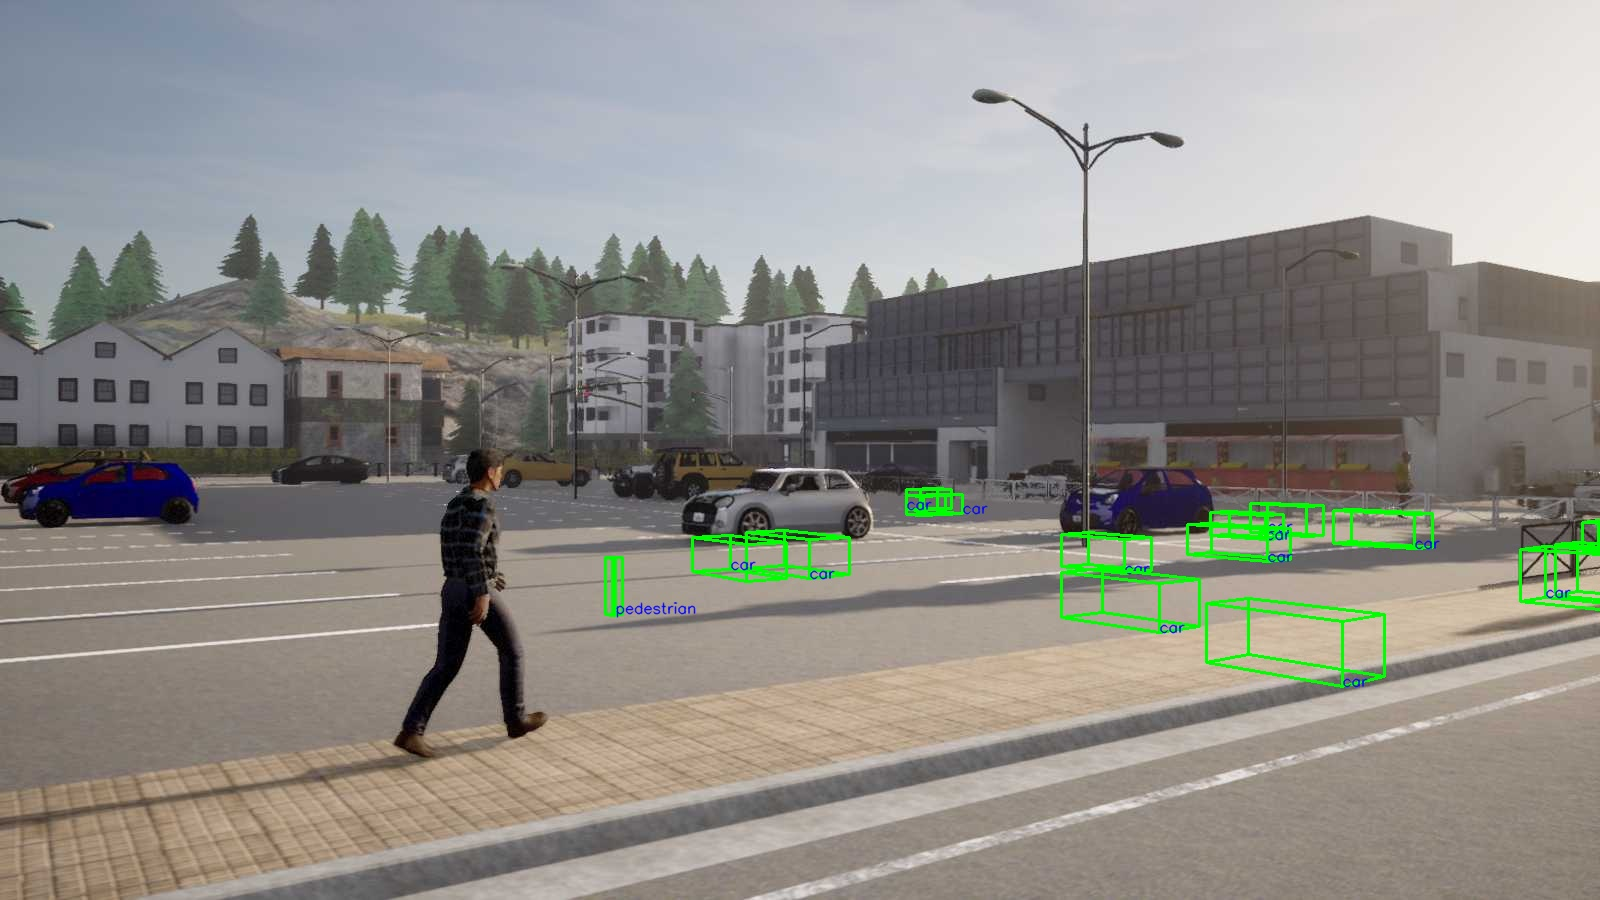
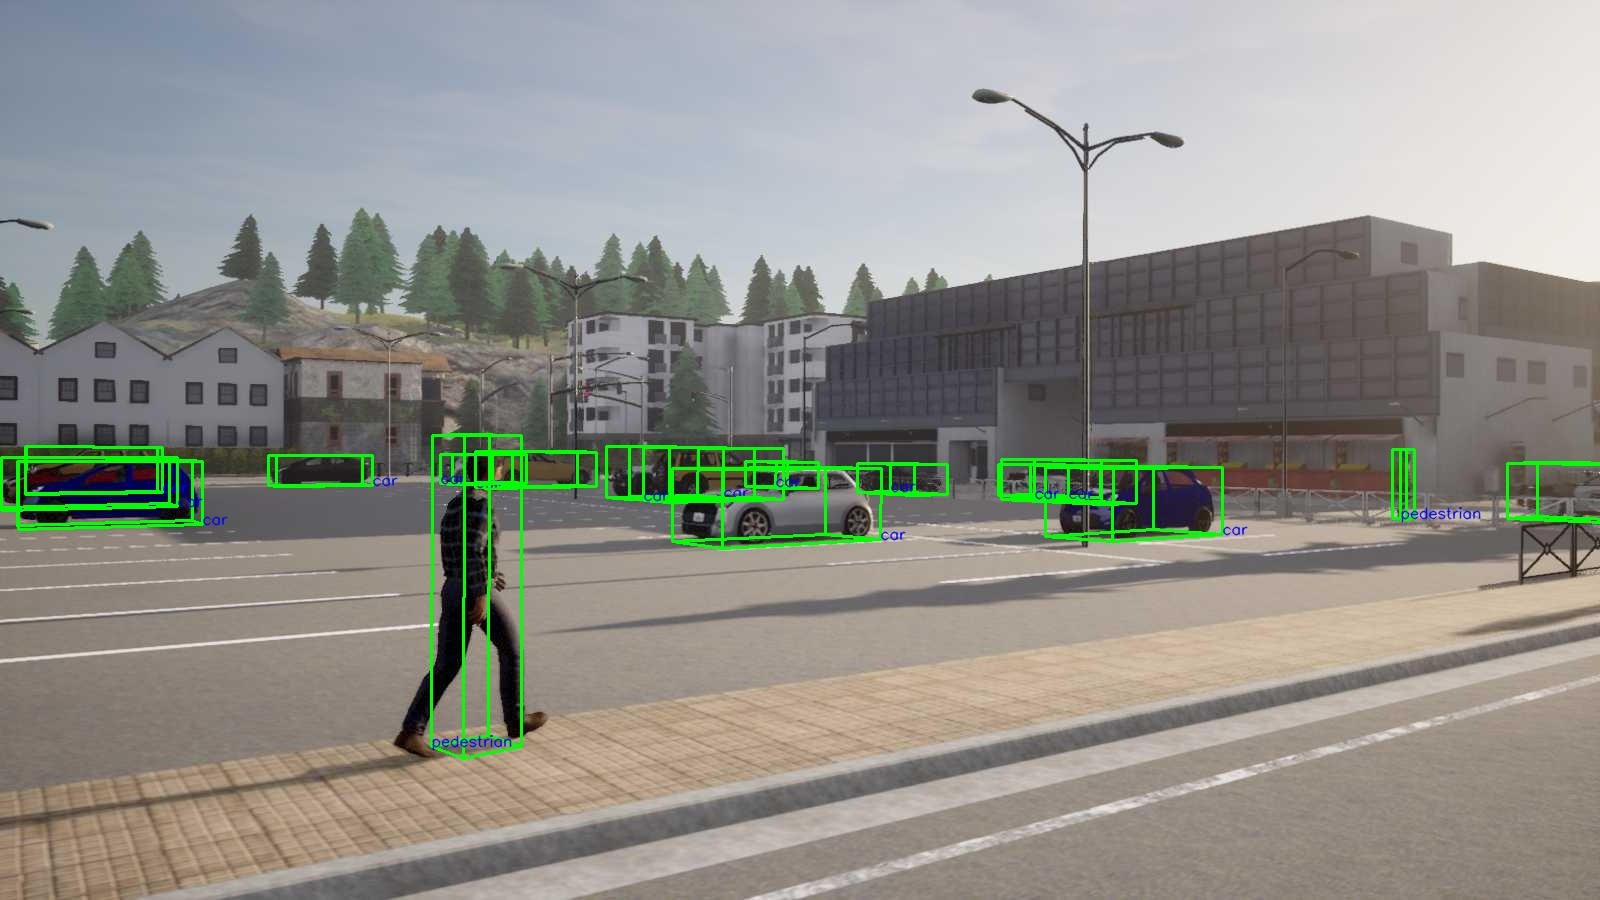
Updated perspective transformation, should work now

Changed region(s): [[0.1562, 0.4667, 1.0, 0.84], [0.0, 0.4667, 0.1562, 0.5911], [0.375, 0.6222, 0.4375, 0.6844]]

diff --git a/sample3_perspective_shift.py b/sample3_perspective_shift.py
@@ -16,7 +16,6 @@ car_calib_path = 'DeepAccident_type1_subtype2_normal/other_vehicle/calib/Town04_
 infra_calib_path = 'DeepAccident_type1_subtype2_normal/infrastructure/calib/Town04_type001_subtype0002_scenario00017/Town04_type001_subtype0002_scenario00017_005.pkl'
 infra_labels_path = 'DeepAccident_type1_subtype2_normal/infrastructure/label/Town04_type001_subtype0002_scenario00017/Town04_type001_subtype0002_scenario00017_005.txt'
 
-
 def draw_bounding_box(image, list_corners_2d):
     """
     Draws a 3D bounding box (as projected 2D corners) on an image.
@@ -30,7 +29,7 @@ def draw_bounding_box(image, list_corners_2d):
     """
 
     for labels, corners_2d in list_corners_2d:
-        
+
         # Convert corners_2d to integer (pixel coordinates)
         corners_2d = [(int(corner[0]), int(corner[1])) for corner in corners_2d]
 
@@ -132,7 +131,7 @@ def get_3d_bbox_corners(parts):
 
 def yolo_check (bbox, image, yolo_boxes):
     """
-    
+
     """
 
     # convert to yolo format by taking the max and min of the corners
@@ -149,6 +148,9 @@ def yolo_check (bbox, image, yolo_boxes):
     return False
 
 if __name__ == '__main__':
+
+    print("running...")
+
     car_cam = cv2.imread(car_cam_path)
     infra_cam = cv2.imread(infra_cam_path)
     infra_labels = np.loadtxt(infra_labels_path, delimiter=' ', dtype=str, skiprows=1)
@@ -174,29 +176,72 @@ if __name__ == '__main__':
 
 #     # infra_back_cam to lidar to ego
     infra_lidar_to_cam = infra_calib['lidar_to_Camera_Front']
-    infra_cam_to_lidar = np.linalg.inv(infra_lidar_to_cam)  # inverse of the transformation
-    infra_lidar_to_ego = infra_calib['lidar_to_ego']
+#     infra_cam_to_lidar = np.linalg.inv(infra_lidar_to_cam)  # inverse of the transformation
+#     infra_lidar_to_ego = infra_calib['lidar_to_ego']
     K_infra = infra_calib['intrinsic_Camera_Front']
-    infra_ego_to_world = infra_calib['ego_to_world']
+#     infra_ego_to_world = infra_calib['ego_to_world']
 
     #ego to lidar to car_front_cam
-    car_ego_to_world = car_calib['ego_to_world']
-    car_lidar_to_ego = car_calib['lidar_to_ego']
-    car_ego_to_cam = car_calib['lidar_to_Camera_FrontLeft'] # lidar not ego?
-    car_ego_to_lidar = np.linalg.inv(car_lidar_to_ego)
-    lidar_to_car = car_calib['lidar_to_Camera_FrontLeft']
+    # car_ego_to_world = car_calib['ego_to_world']
+    # car_lidar_to_ego = car_calib['lidar_to_ego']
+    # car_ego_to_cam = car_calib['lidar_to_Camera_FrontLeft'] # lidar not ego?
+    # car_ego_to_lidar = np.linalg.inv(car_lidar_to_ego)
+    # lidar_to_car = car_calib['lidar_to_Camera_FrontLeft']
     K_car = car_calib['intrinsic_Camera_FrontLeft']
-    car_world_to_ego = np.linalg.inv(car_ego_to_world)
-
-    T_infra_to_car = np.linalg.inv(
-        car_ego_to_world) @  infra_ego_to_world @ infra_cam_to_lidar @ car_ego_to_cam
-    transformation = T_infra_to_car
+    # car_world_to_ego = np.linalg.inv(car_ego_to_world)
+    #
+    # T_infra_to_car = np.linalg.inv(
+    #     car_ego_to_world) @  infra_ego_to_world @ infra_cam_to_lidar @ car_ego_to_cam
+    # transformation = T_infra_to_car
     # get  transformation from infra_back_cam to car_front_cam
-    transformation = lidar_to_car @ car_ego_to_lidar @ infra_lidar_to_ego
+    # transformation = lidar_to_car @ car_ego_to_lidar @ infra_lidar_to_ego  # was using this one
+
+    # transformation = lidar_to_car @ infra_lidar_to_ego
     # transformation = infra_lidar_to_ego @ infra_ego_to_world @ car_world_to_ego @ car_ego_to_cam
-    
+
     # transformation = np.linalg.inv(transformation)
     # print("Transformation matrix: \n", transformation)
+
+    # --------------------------------------------------------------------------
+    # ChatGPT code
+
+    # Step 1: Infrastructure LiDAR to Infrastructure Ego Frame
+    infra_lidar_to_ego = infra_calib[
+        'lidar_to_ego']  # Transform LiDAR -> Infra Ego
+
+    # Step 2: Infrastructure Ego to World Frame
+    infra_ego_to_world = infra_calib[
+        'ego_to_world']  # Transform Infra Ego -> World
+
+    # Step 3: World to Car Ego Frame
+    car_world_to_ego = np.linalg.inv(
+        car_calib['ego_to_world'])  # Transform World -> Car Ego
+
+    # Step 4: Car Ego to Car LiDAR Frame
+    car_lidar_to_ego = car_calib[
+        'lidar_to_ego']  # Transform Car LiDAR -> Car Ego
+    car_ego_to_lidar = np.linalg.inv(
+        car_lidar_to_ego)  # Transform Car Ego -> Car LiDAR
+
+    # Step 5: Car LiDAR to Front-Left Camera
+    car_lidar_to_camera = car_calib[
+        'lidar_to_Camera_FrontLeft']  # Transform Car LiDAR -> Front-Left Camera
+
+    # Final Transformation: Infra LiDAR -> Front-Left Camera
+    # T_infra_to_car_camera = (
+    transformation = (
+            car_lidar_to_camera @  # Step 5: Car LiDAR -> Camera
+            car_ego_to_lidar @  # Step 4: Car Ego -> LiDAR
+            car_world_to_ego @  # Step 3: World -> Car Ego
+            infra_ego_to_world @  # Step 2: Infra Ego -> World
+            infra_lidar_to_ego  # Step 1: Infra LiDAR -> Infra Ego
+    )
+
+    # Result: Use T_infra_to_car_camera to transform points
+
+    # --------------------------------------------------------------------------
+
+
 
     P_infraback = K_infra @ infra_lidar_to_cam[:3, :]
     # print("P_infraback: \n", P_infraback)
@@ -212,7 +257,7 @@ if __name__ == '__main__':
         print("Label", bbox[0])
         corners_3d = get_3d_bbox_corners(bbox)
         # project onto infra_back_cam and show image
-        corners_3d = np.array(corners_3d)        
+        corners_3d = np.array(corners_3d)
 
         # print("3D Corners: \n", (corners_3d))
         corners_2d = project_points(corners_3d, P_infraback)
@@ -235,16 +280,16 @@ if __name__ == '__main__':
         # print("3D Corners: \n", car_corners_3d)
         car_corners_2d = project_points(car_corners_3d, P_car)
         car_detection_2d.append([bbox[0], car_corners_2d])
-        
-                
+
+
 
 
     # BBoxes on original images
     image = draw_bounding_box(infra_cam, detections_2d)
     cv2.imwrite('sample3/infra_cam_bbox.jpg', image)
-    print("Image saved as infra_cam_bbox.jpg")
+    print("Image saved as sample3/infra_cam_bbox.jpg")
 
     # Transformed BBoxes on car_front_cam
     image = draw_bounding_box(car_cam, car_detection_2d)
     cv2.imwrite('sample3/car_cam_bbox.jpg', image)
-    print("Image saved as car_front_cam_bbox.jpg")
+    print("Image saved as sample3/car_cam_bbox.jpg")
